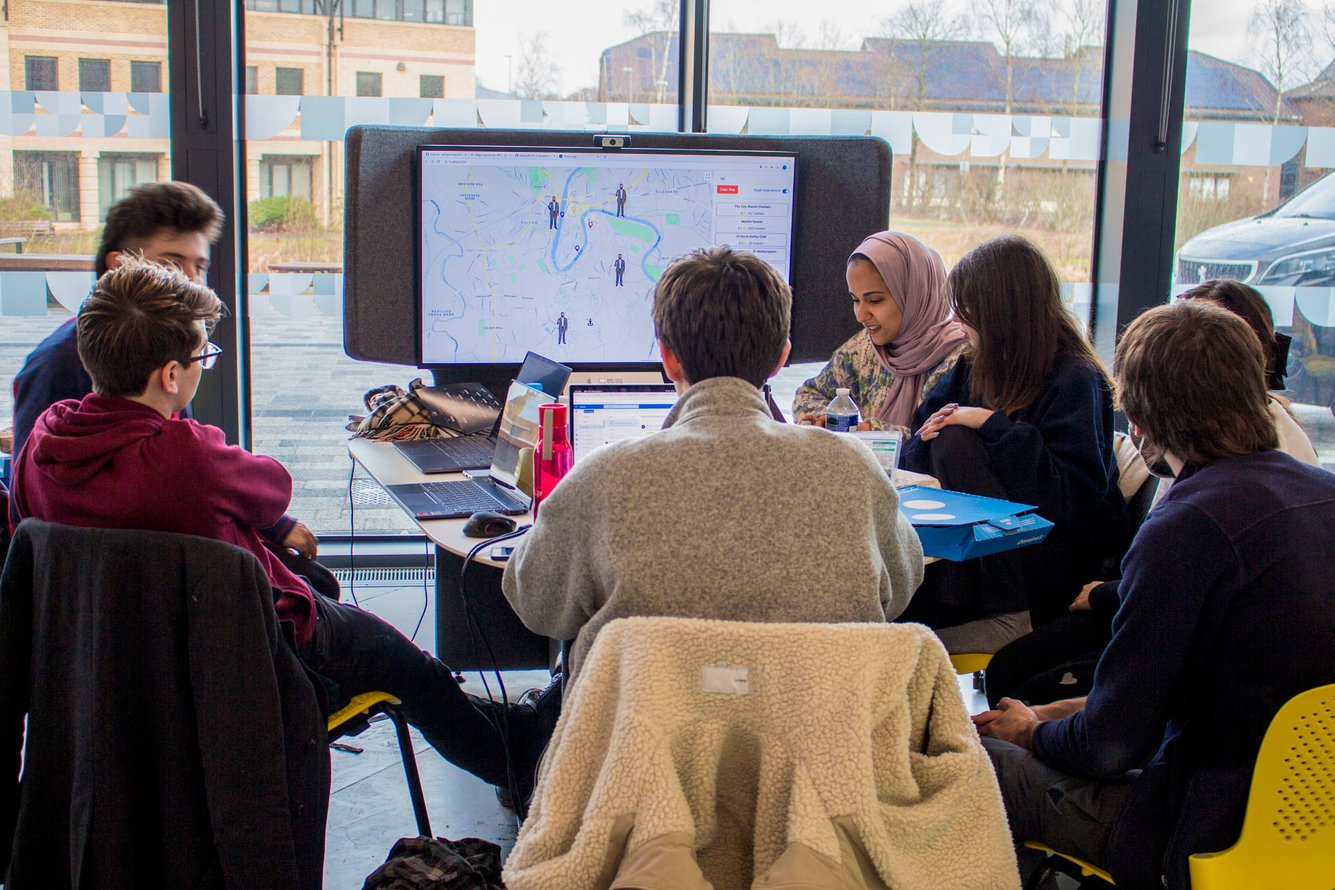
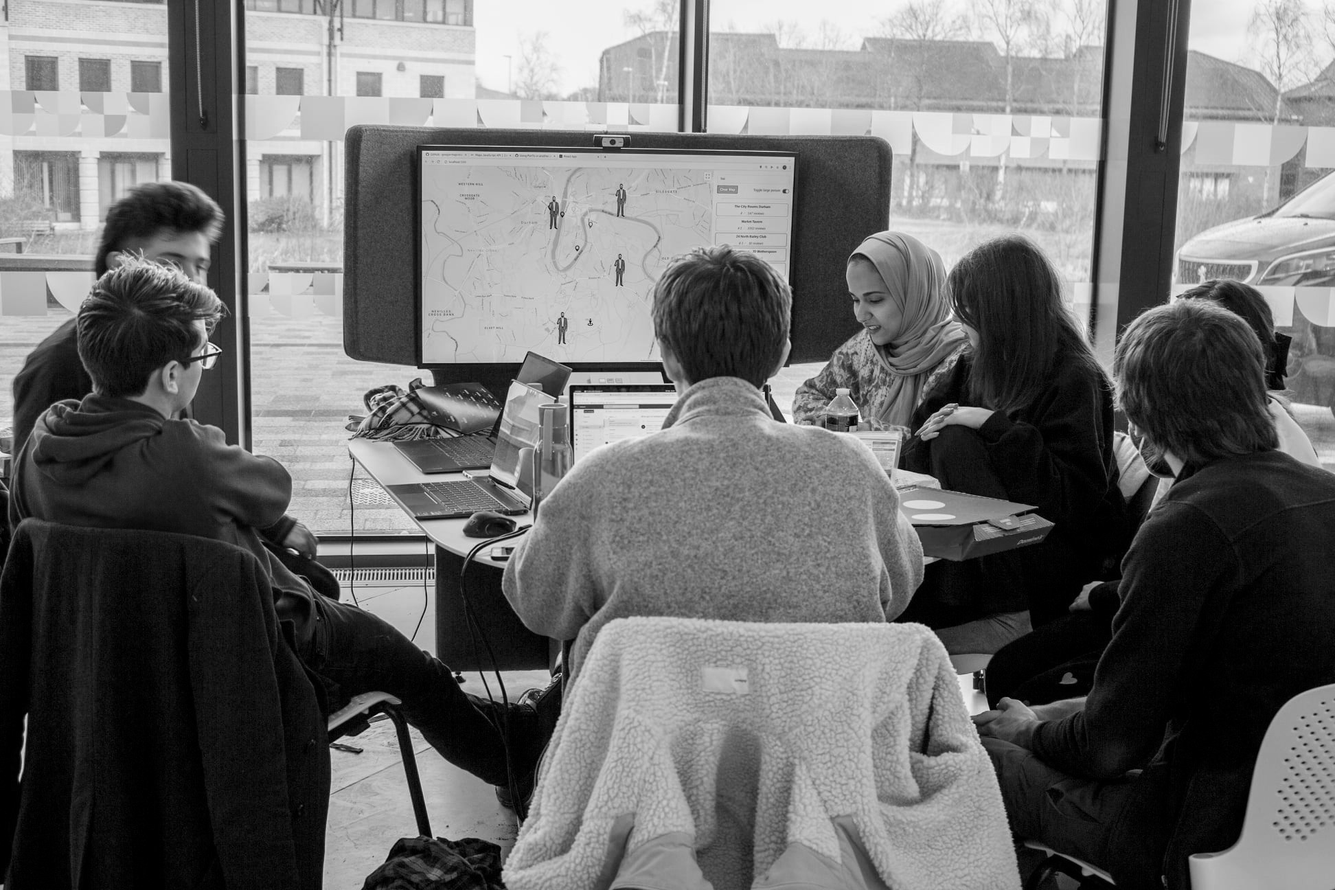
🎨 Update darkening of FAQs background image
Move saturation adjustment to image itself and apply darken via gradient

diff --git a/styles/_content.scss b/styles/_content.scss
@@ -11,8 +11,10 @@
     }
 
     &.faqs {
-        background-image: linear-gradient(black, black), url('/assets/photos/group_around_desk_monitor.jpg');
-        background-blend-mode: saturation;
+        background-image: linear-gradient(
+                rgba(0, 0, 0, 0.8),
+                rgba(0, 0, 0, 0.8)
+        ), url('/assets/photos/group_around_desk_monitor.jpg');
         background-size: 100% auto;
         background-repeat: no-repeat;
 
